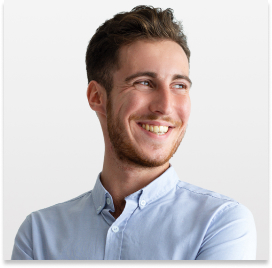
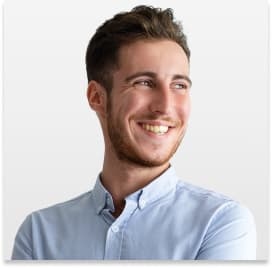
finish

diff --git a/index.html b/index.html
@@ -61,22 +61,22 @@
         <h2>Our Team</h2>
         <ul>
           <li>
-            <img src="./images/mark1.jpg" alt="mark" width="264" />
+            <img src="./images/mark.jpg" alt="mark" width="264" height="260">
             <h3>Mark Guerrero</h3>
             <p>Product Designer</p>
           </li>
           <li>
-            <img src="./images/tom.jpg" alt="tom" width="264" />
+            <img src="./images/tom.jpg" alt="tom" width="264" height="260" >
             <h3>Tom Ford</h3>
             <p>Frontend Developer</p>
           </li>
           <li>
-            <img src="./images/camila.jpg" alt="camila" width="264" />
+            <img src="./images/camila.jpg" alt="camila" width="264" height="260" >
             <h3>Camila Garcia</h3>
             <p>Marketing</p>
           </li>
           <li>
-            <img src="./images/daniel.jpg" alt="daniel" width="264" />
+            <img src="./images/daniel.jpg" alt="daniel" width="264" height="260" >
             <h3>Daniel Wilson</h3>
             <p>UI Designer</p>
           </li>
